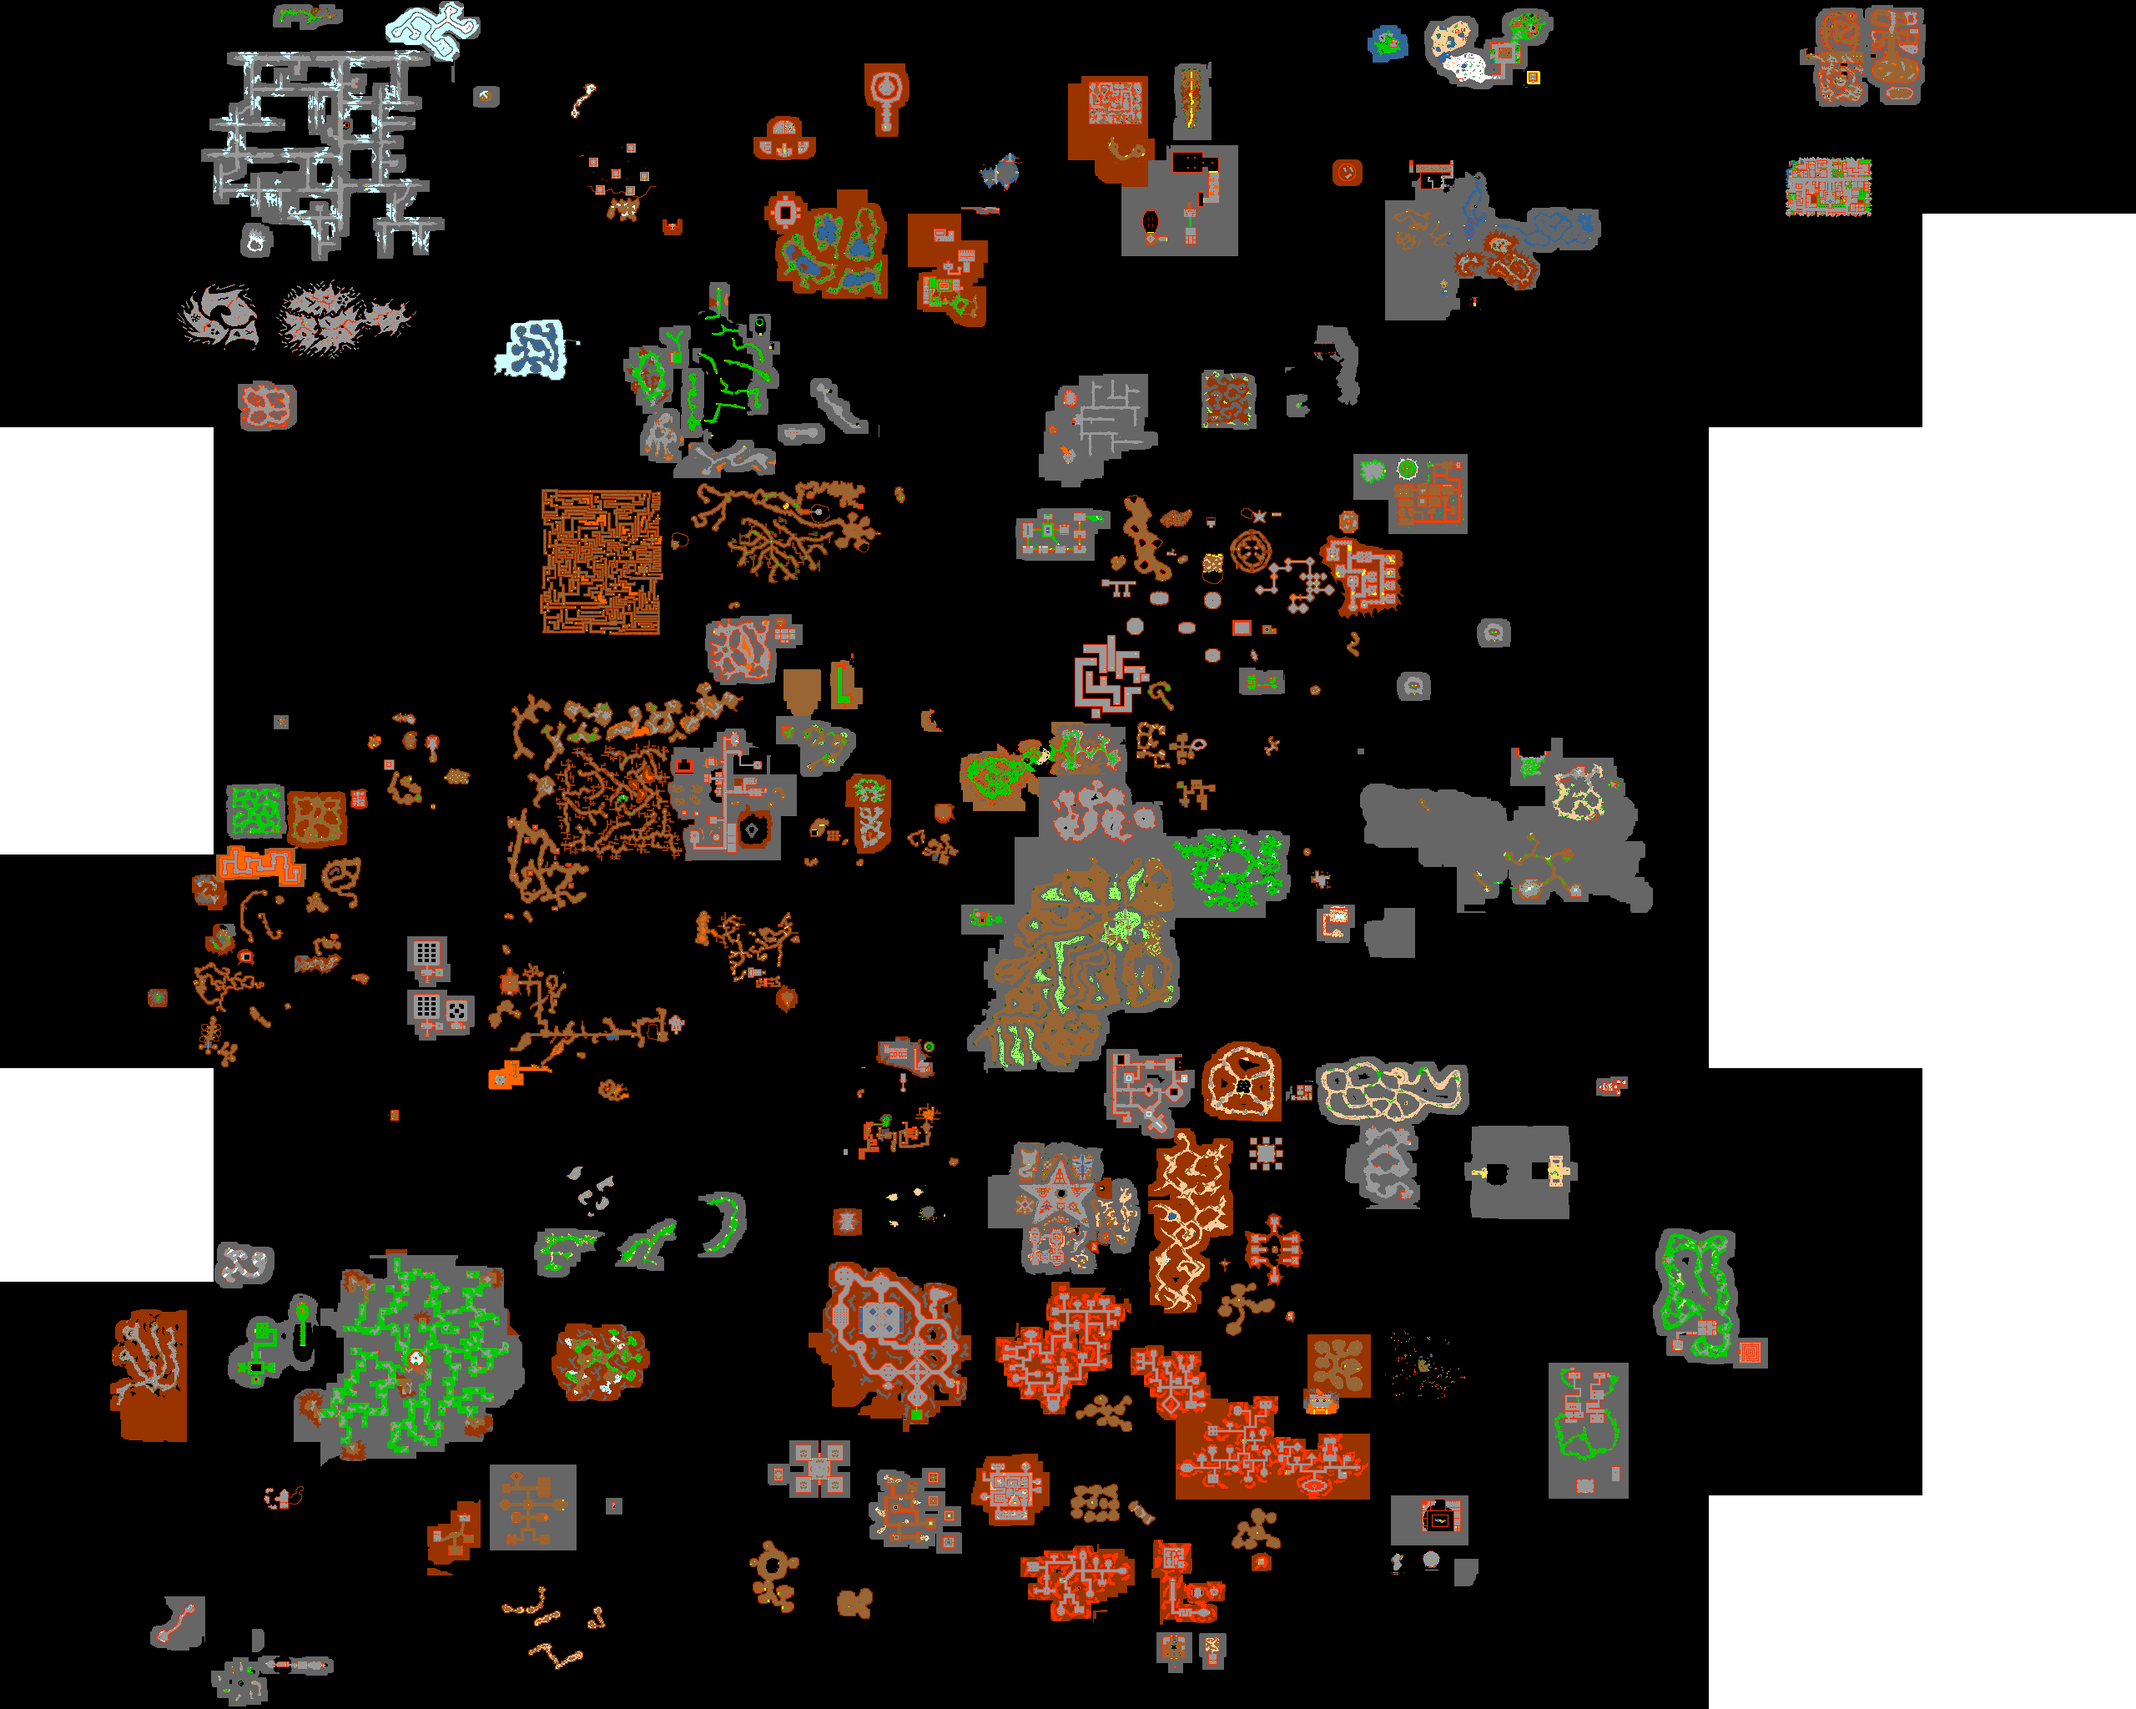
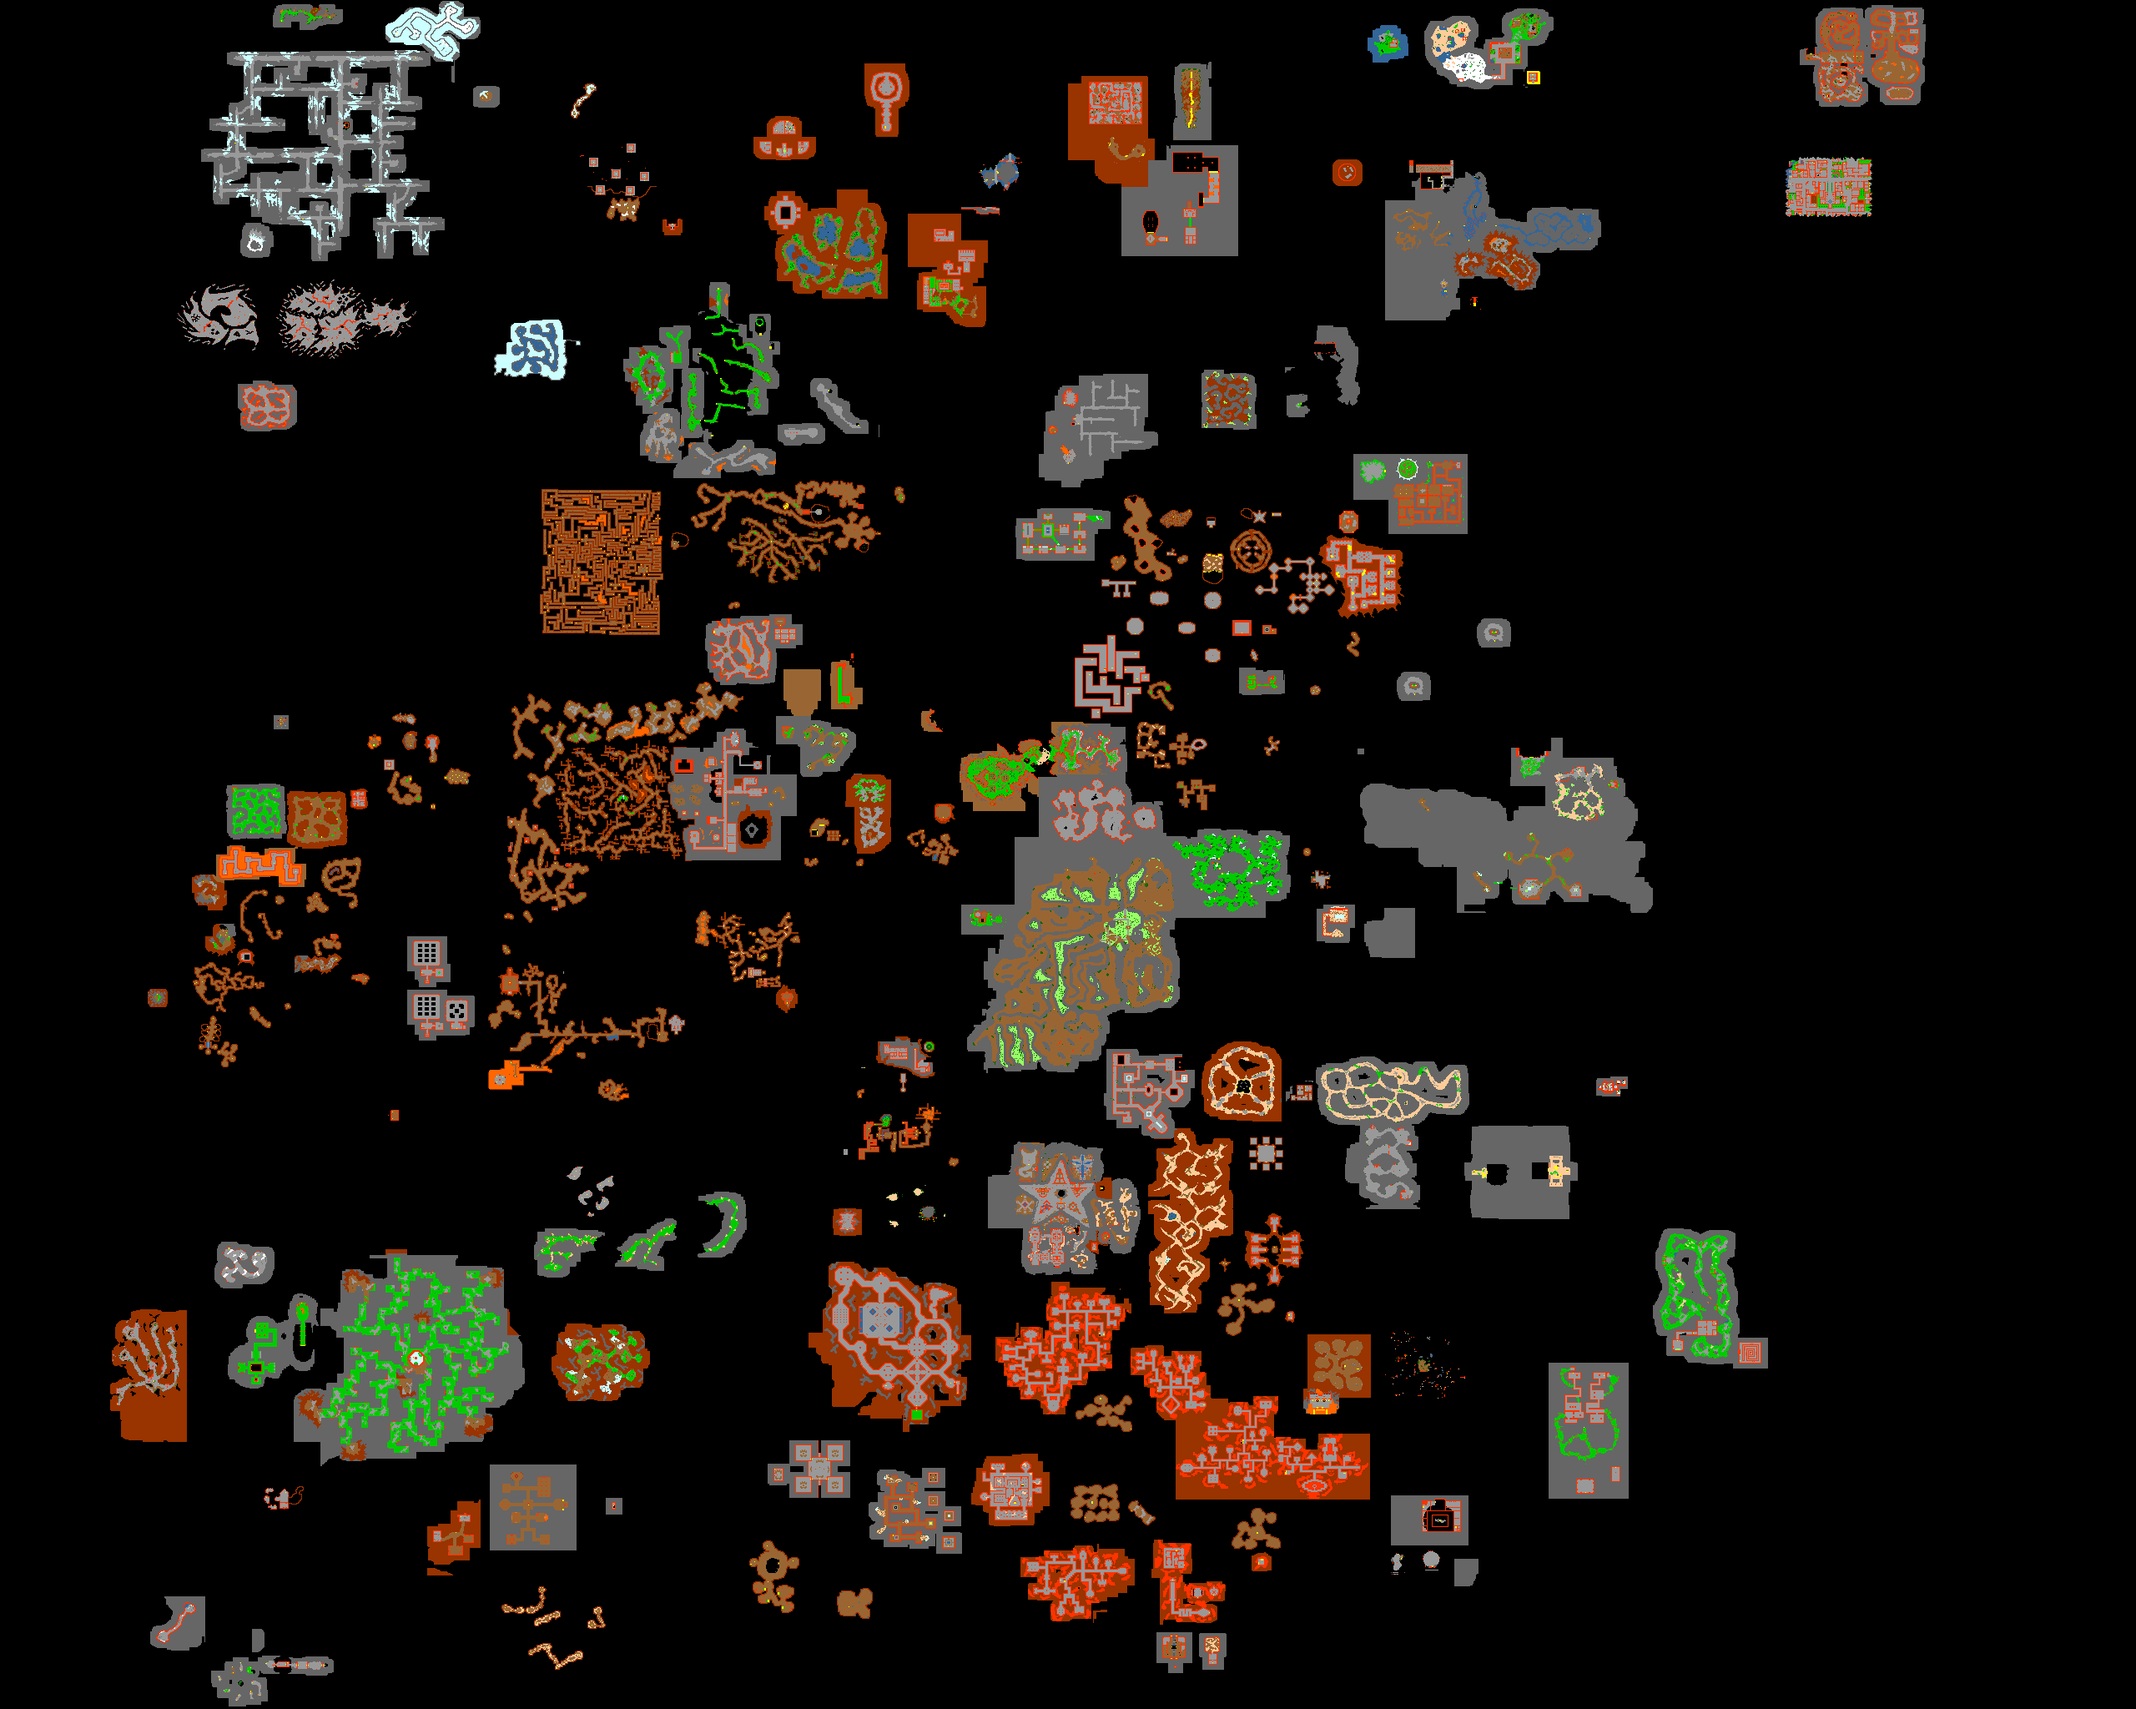
fixed resolution

Changed region(s): [[0.7812, 0.125, 1.0, 1.0], [0.0, 0.25, 0.125, 0.5], [0.0, 0.625, 0.125, 0.75]]

diff --git a/main.py b/main.py
@@ -19,8 +19,9 @@ def get_minmax_coords():
 
 
 def create_png(min_x, min_y, max_x, max_y):
-    output = Image.new('RGB', (max_x - min_x + 256, max_y - min_y + 256), 'white')  # If some floors aren't calculated properly
+    output = Image.new('RGB', (max_x - min_x + 256, max_y - min_y + 256), 'black')  # If some floors aren't calculated properly
     # (there aren't all minimap files) you can replace "(max_x - min_x + 256, max_y - min_y + 256)" with desired resolution eg. (2560, 2048)
+    # output = Image.new('RGB', (2560, 2048), 'black')
     for file in os.listdir(path):
         # print(file)
         if 'Color' in file and f'_{floor}.png' in file:
